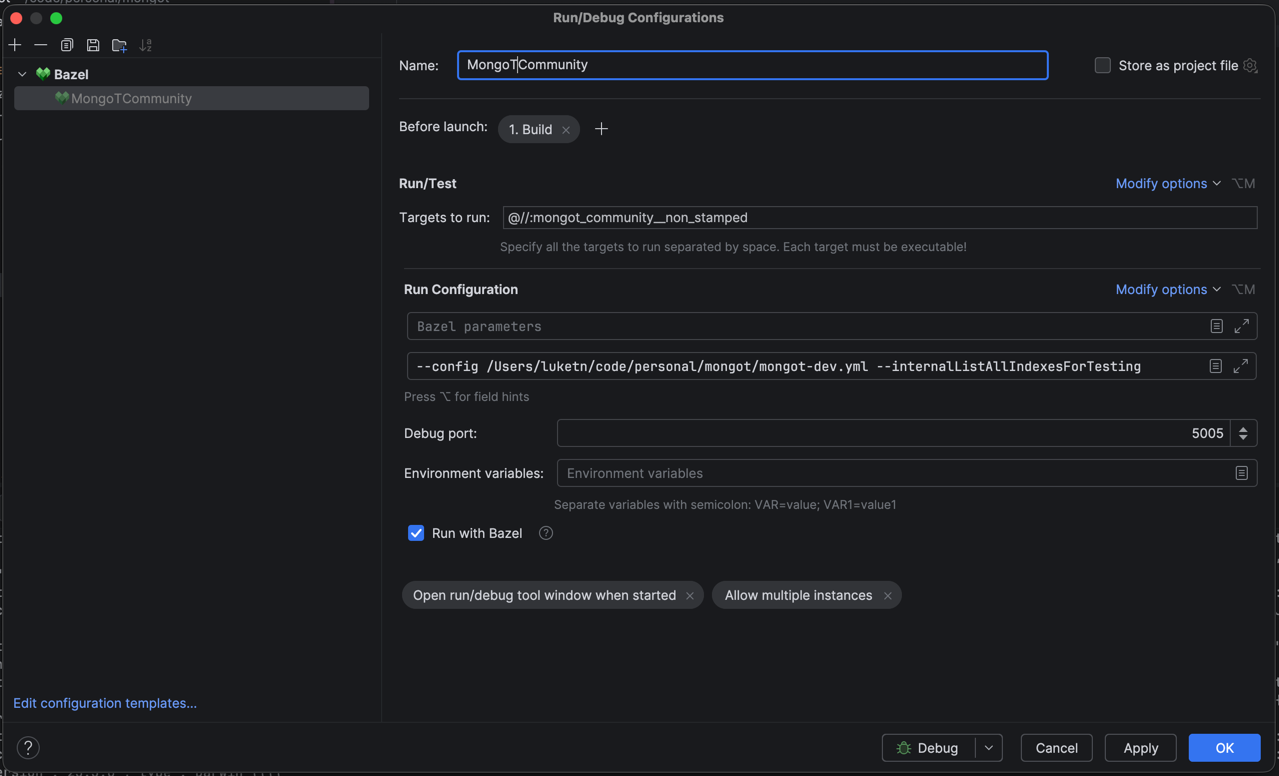
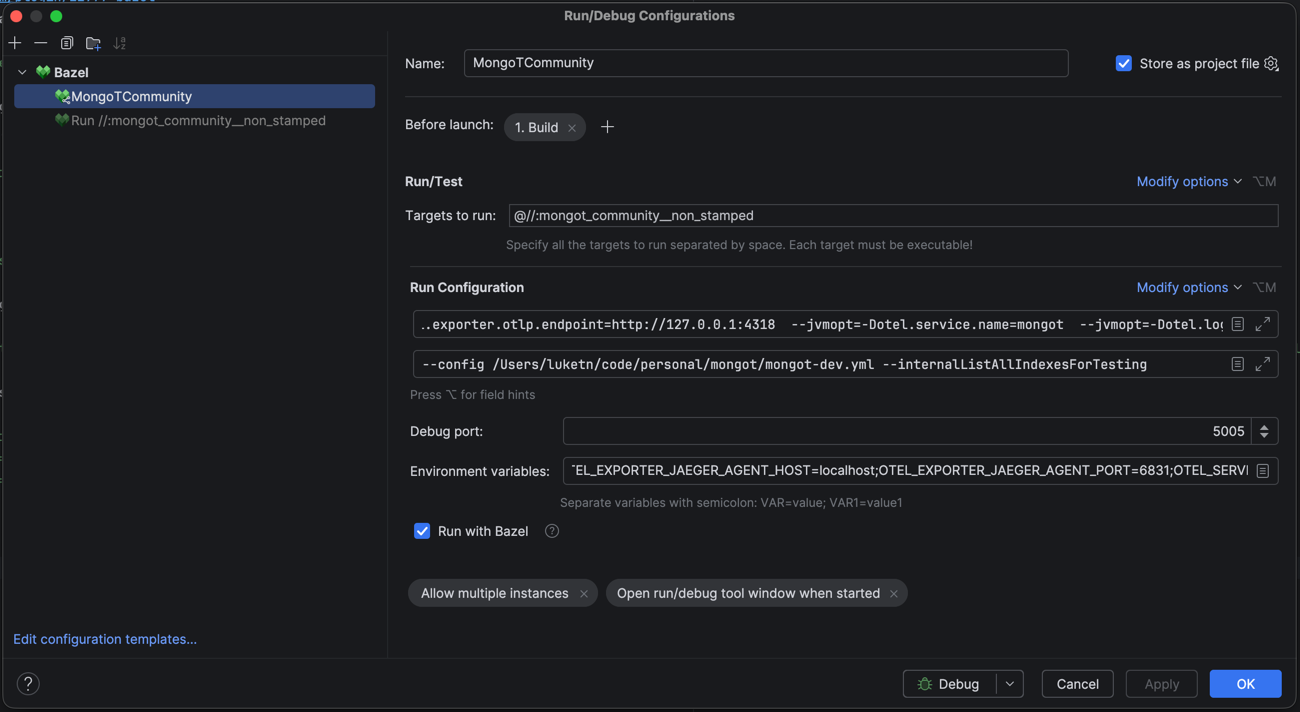
update config

diff --git a/INTELLIJ-QUICKSTART.md b/INTELLIJ-QUICKSTART.md
@@ -26,7 +26,13 @@ e.g.
 ```
 5. To enable distributed tracing, add these Bazel parameters:
 ```
---jvmopt=-javaagent:{full-path-to-source-dir}/mongot/otel-agent/opentelemetry-javaagent.jar --jvmopt=-Dotel.traces.exporter=otlp --jvmopt=-Dotel.exporter.otlp.endpoint=http://127.0.0.1:4318 --jvmopt=-Dotel.service.name=mongot --jvmopt=-Dotel.metrics.exporter=none --jvmopt=-Dotel.logs.exporter=none
+--jvmopt=-javaagent:{full-path-to-source-dir}/otel-agent/opentelemetry-javaagent.jar --jvmopt=-Dotel.traces.exporter=otlp --jvmopt=-Dotel.exporter.otlp.endpoint=http://127.0.0.1:4318 --jvmopt=-Dotel.service.name=mongot --jvmopt=-Dotel.logs.exporter=none
 ```
-
+6. Set the environment variables:
+```
+OTEL_TRACES_EXPORTER=jaeger_thrift;
+OTEL_EXPORTER_JAEGER_AGENT_HOST=localhost;
+OTEL_EXPORTER_JAEGER_AGENT_PORT=6831;
+OTEL_SERVICE_NAME=mongot;
+```
 ![intellij-run-config.png](intellij-run-config.png)
